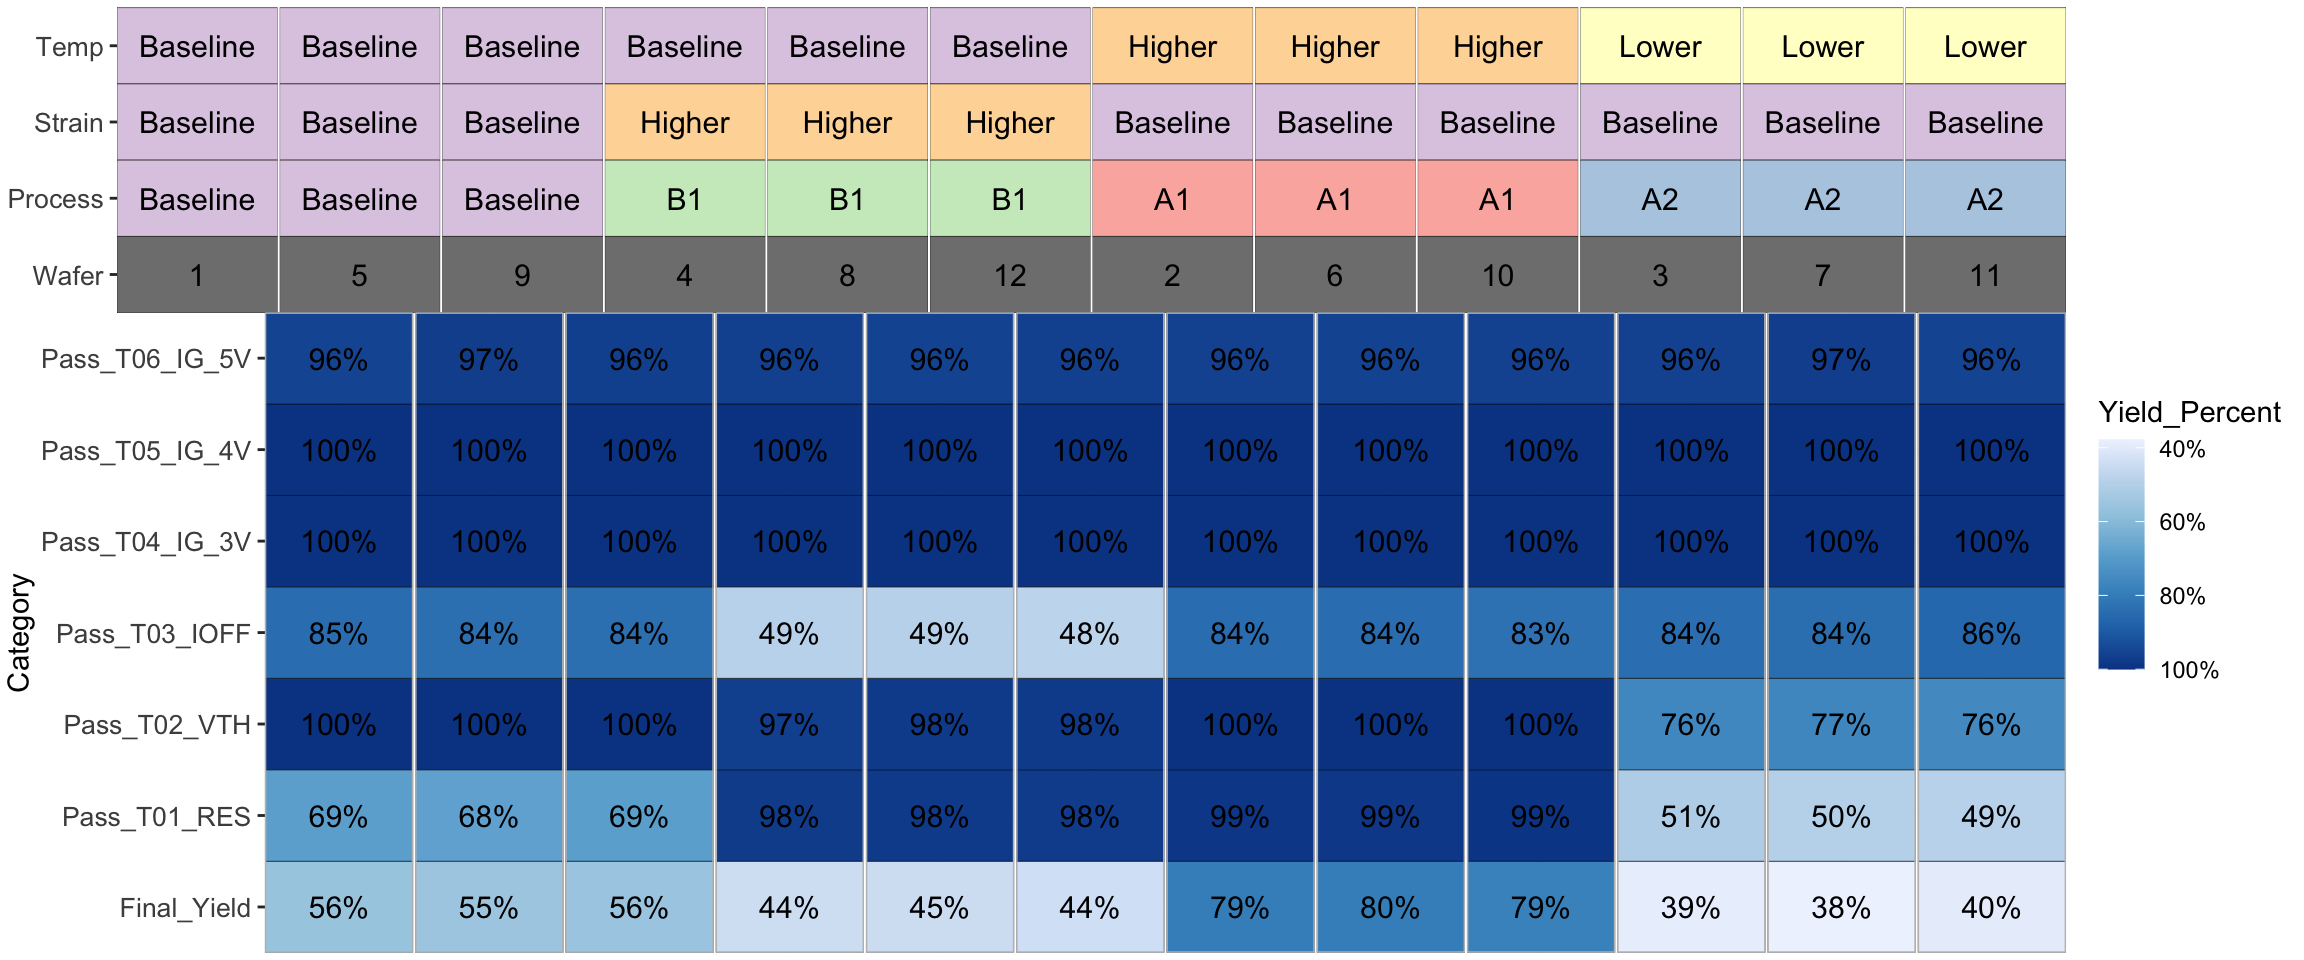
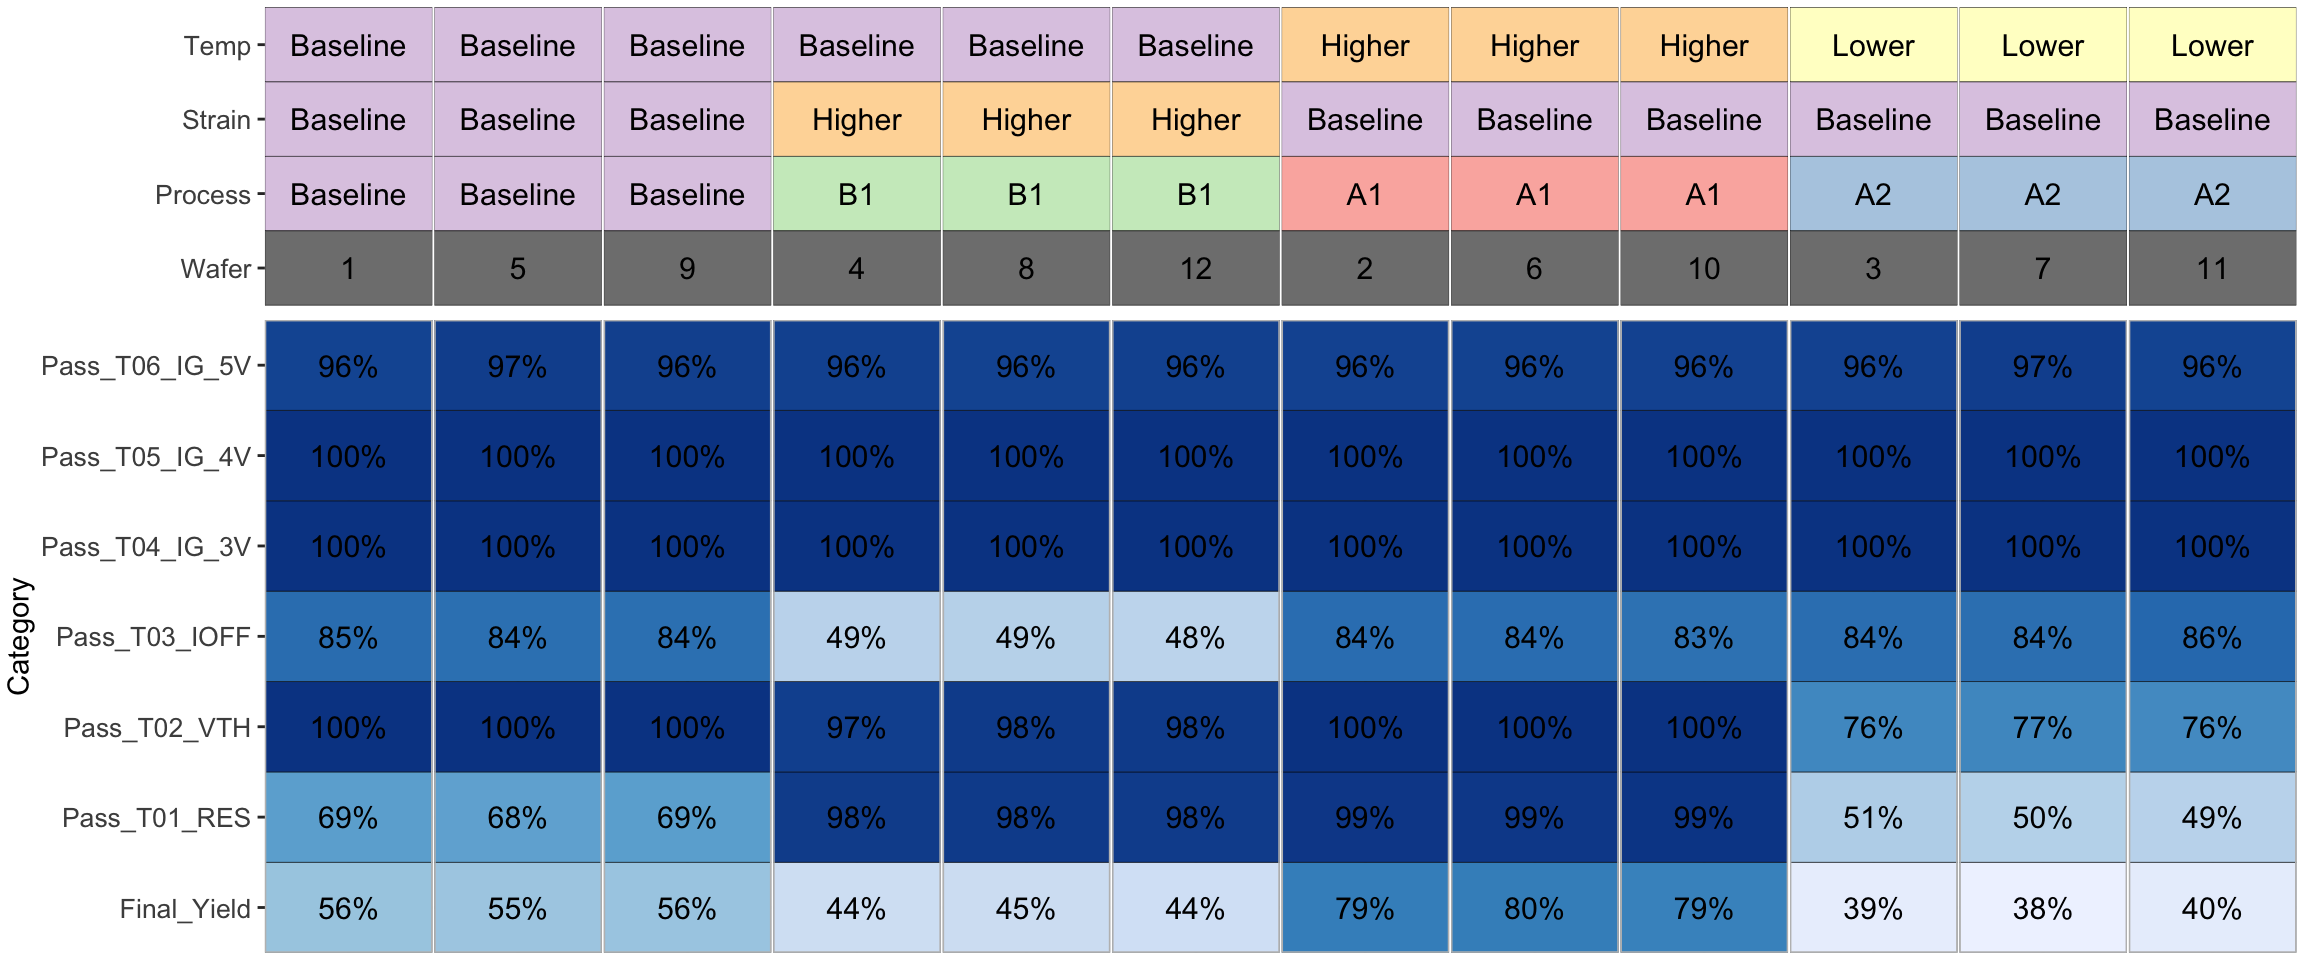
Improve final yield plot.

diff --git a/content/post/2022-03-12-semiconductor-data-analysis-example.html b/content/post/2022-03-12-semiconductor-data-analysis-example.html
@@ -1184,6 +1184,7 @@ for (col in grep(&#39;T0&#39;, colnames(df_experiment), value = T)) {
       nrow = 2,
       heights = c(2, 1)
     )
+  
   p_strip &lt;- p_strip + theme(legend.position = &#39;none&#39;)
   pmap &lt;- pmap + theme(legend.position = &#39;none&#39;)
   
@@ -1315,21 +1316,17 @@ plot_yield_tile2 &lt;- function(df_limits, df_test_data) {
   p_strip &lt;- p_strip + theme(legend.position = &#39;none&#39;)
   pyield &lt;- pyield + theme(legend.position = &#39;none&#39;)
   
+  p_main &lt;-     ggarrange(
+      p_strip,
+      pyield,
+      nrow = 2,
+      ncol = 1,
+      heights = c(1, 2),
+      align = &#39;hv&#39;
+    )
   
   # Use ggrrange to combine multiple sections of the plot
-  return(
-    ggarrange(
-      p_strip,
-      ggplot() + theme_void(),
-      pyield,
-      p_legend,
-      nrow = 2,
-      ncol = 2,
-      heights = c(1, 2),
-      widths = c(9, 1),
-      align = &#39;v&#39;
-    )
-  )
+  return(p_main)
 }
 
 plot_yield_tile2(df_limits, df_experiment)</code></pre>
